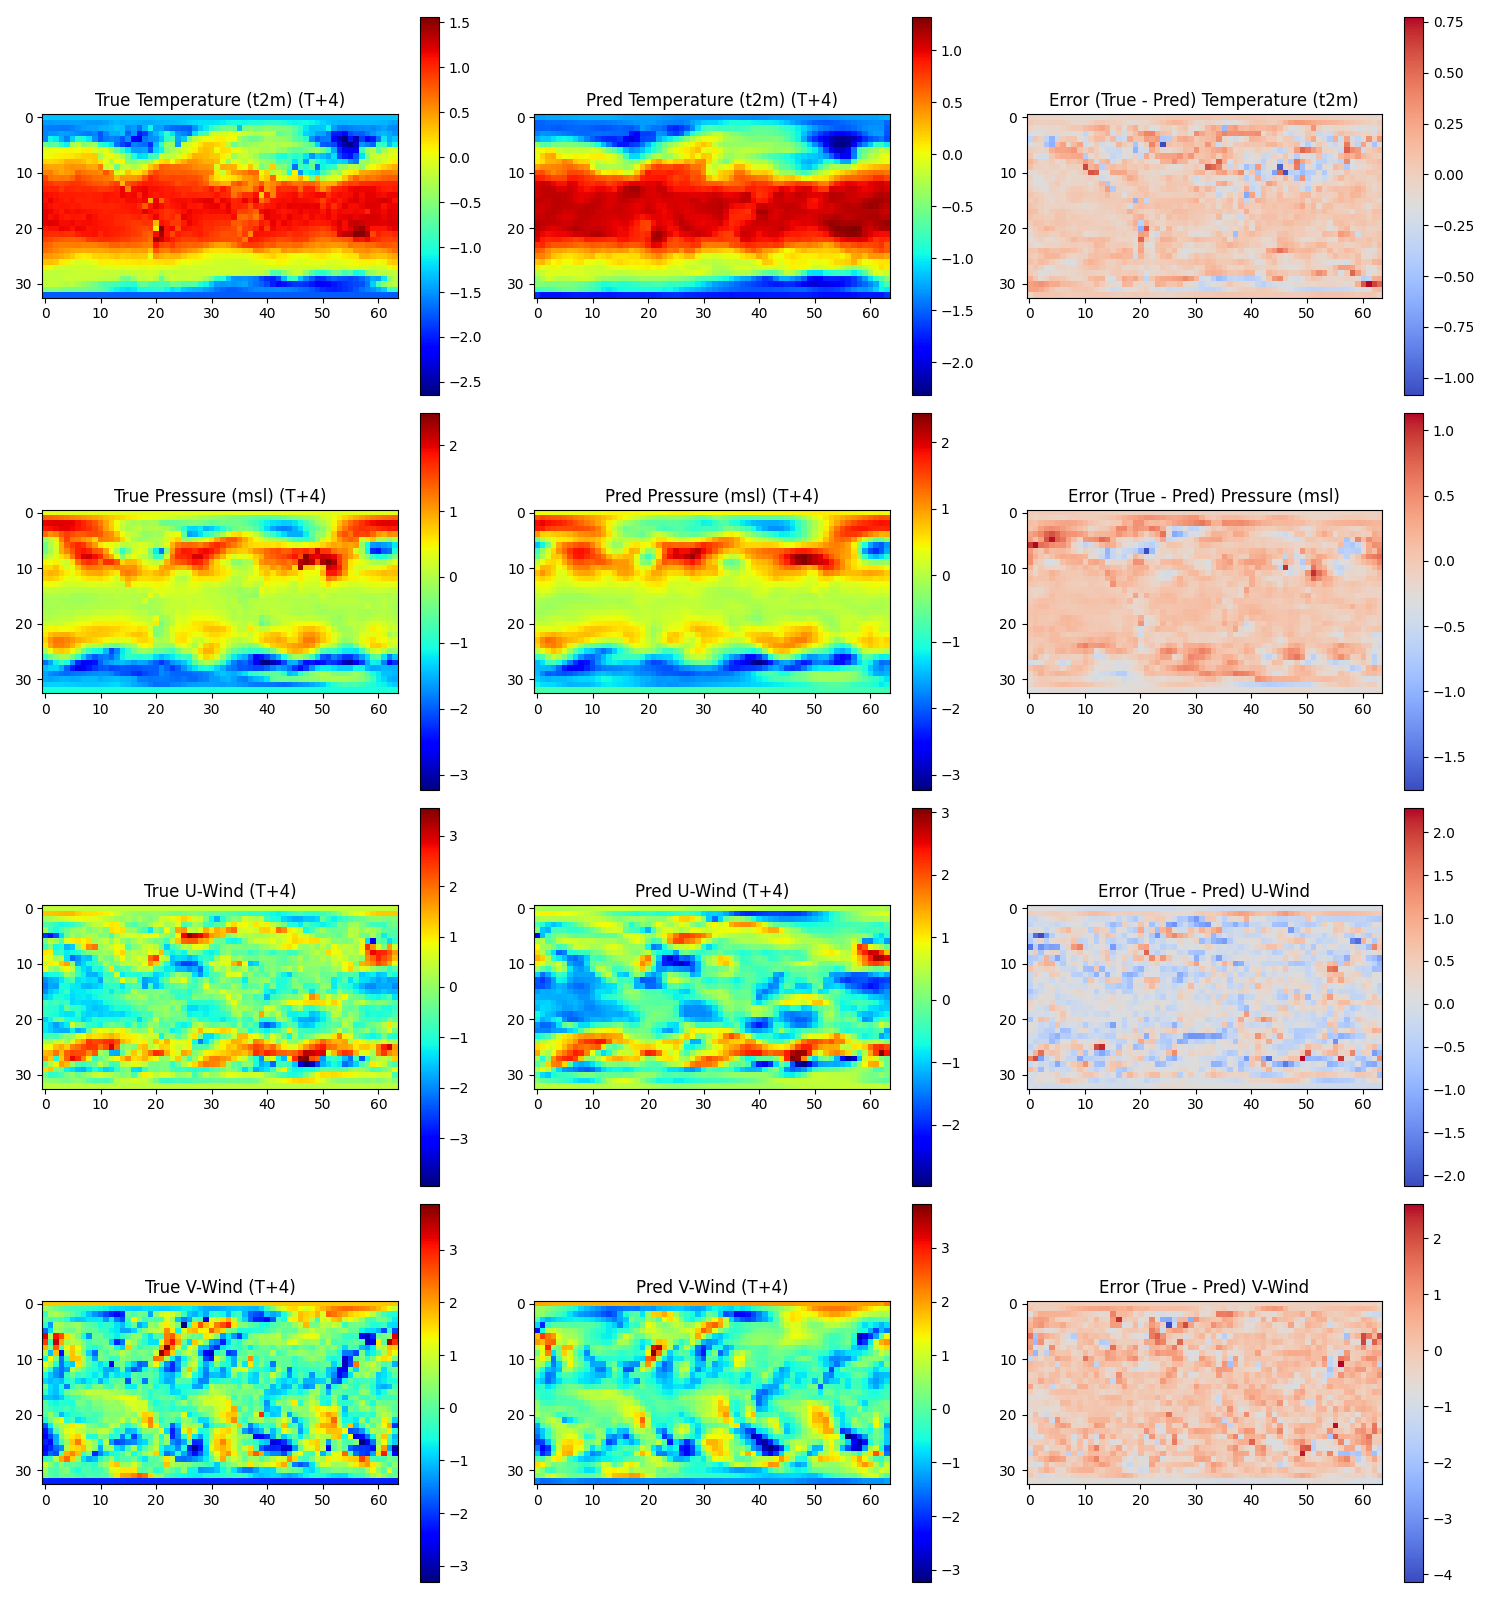
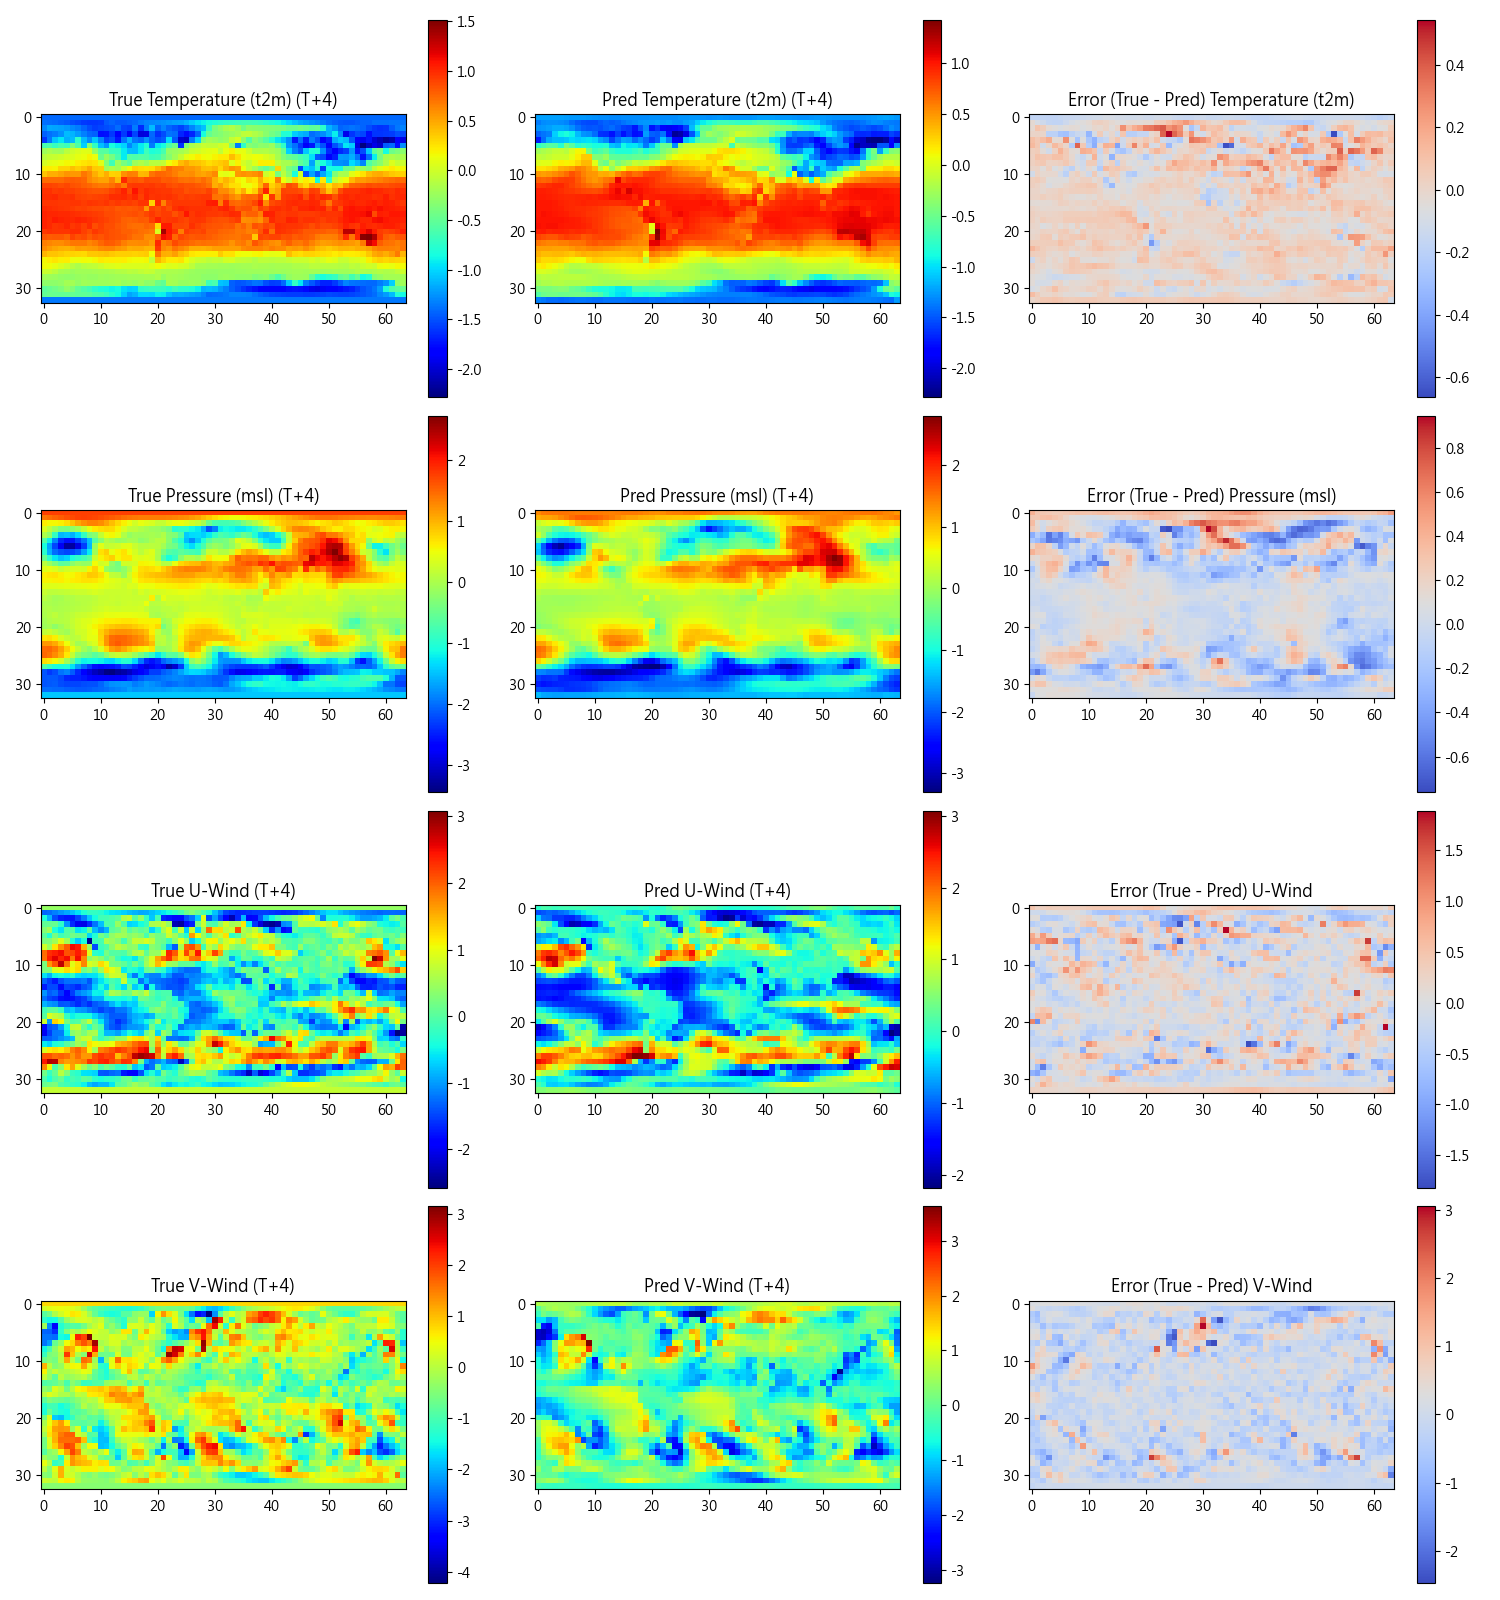
feat: 完成三年大資料縫合、Time Embedding 時間感知與完整視覺化儀表板

diff --git a/fourier_2d.py b/fourier_2d.py
@@ -11,6 +11,14 @@ from torch.nn.parameter import Parameter
 import xarray as xr   # <--- 補上這行
 
 import matplotlib.pyplot as plt
+from matplotlib import font_manager
+# --- 新增：強制載入 Windows 系統內的微軟正黑體 ---
+font_path = r"C:\Windows\Fonts\msjh.ttc"
+font_manager.fontManager.addfont(font_path)
+# --- 新增：解決 Matplotlib 中文顯示為方塊的問題 ---
+plt.rcParams['font.sans-serif'] = ['Microsoft JhengHei'] # 設定字體為微軟正黑體
+plt.rcParams['axes.unicode_minus'] = False # 解決座標軸負號 (-) 變方塊的問題
+
 import pandas as pd
 
 import operator
@@ -286,8 +294,7 @@ epochs = 50
 
 print("正在讀取 ERA5 氣象資料...")
 # 請確保你的檔案名稱與路徑正確，如果不同請修改這裡
-ds = xr.open_dataset('data/global_era5_mini_202301.nc', engine='h5netcdf') # 改成這顆迷你地球
-
+ds = xr.open_mfdataset('data/global_era5_mini_*.nc', engine='h5netcdf', combine='by_coords')
 # 提取資料並轉換成 PyTorch Tensor
 t2m = torch.tensor(ds['t2m'].values)
 msl = torch.tensor(ds['msl'].values)
@@ -331,12 +338,12 @@ for i in range(1, rollout_steps + 1):
 # 將未來的答案堆疊在一起，維度變成 (batch, rollout_steps, lat, lon, channels)
 y_data = torch.stack(y_list, dim=1) 
 
-x_train, y_train = x_data[:100], y_data[:100]
-x_test, y_test   = x_data[100:], y_data[100:]
+# 前兩年 (2021, 2022) 當訓練集，1460 * 2 = 2920 筆
+train_size = 2920 
 
-# 切割訓練集 (前 100 筆) 與測試集 (後 23 筆)
-x_train, y_train = x_data[:100], y_data[:100]
-x_test, y_test   = x_data[100:], y_data[100:]
+x_train, y_train = x_data[:train_size], y_data[:train_size]
+# 剩下的最後一年 (2023) 全部當作驗證測試集！
+x_test, y_test   = x_data[train_size:], y_data[train_size:]
 
 # 資料標準化 Normalization (氣象資料必做，否則數值差異太大無法收斂)
 x_mean, x_std = x_train.mean(dim=(0, 1, 2), keepdim=True), x_train.std(dim=(0, 1, 2), keepdim=True)
@@ -462,7 +469,6 @@ print("學習曲線繪製完成！請查看 learning_curve.png")
 ################################################################
 # 5. 視覺化預測結果 (畫圖)
 ################################################################
-import matplotlib.pyplot as plt
 
 print("正在繪製預測結果...")
 model.eval()